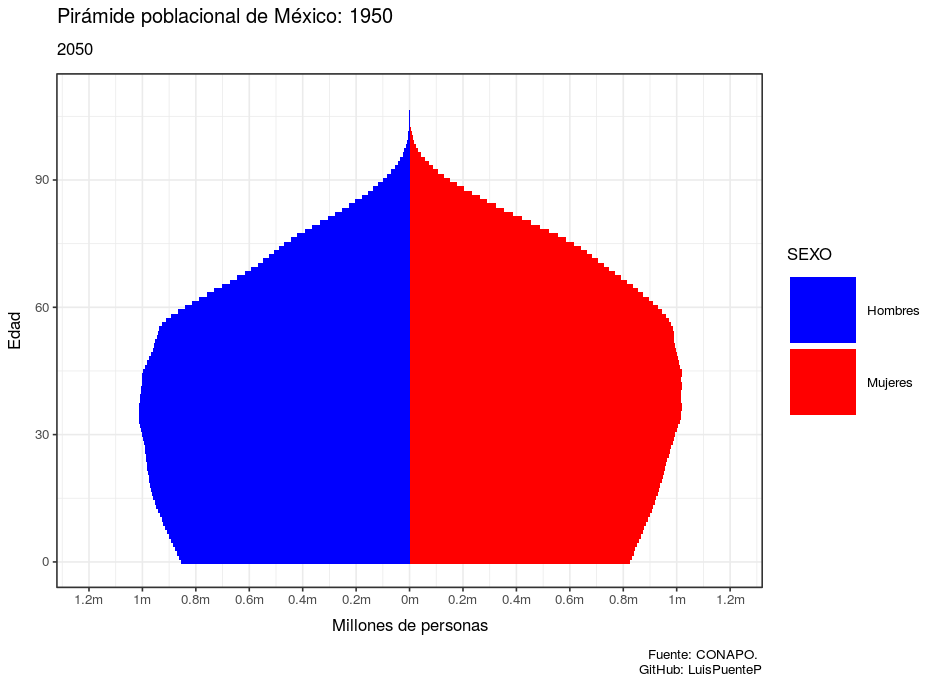
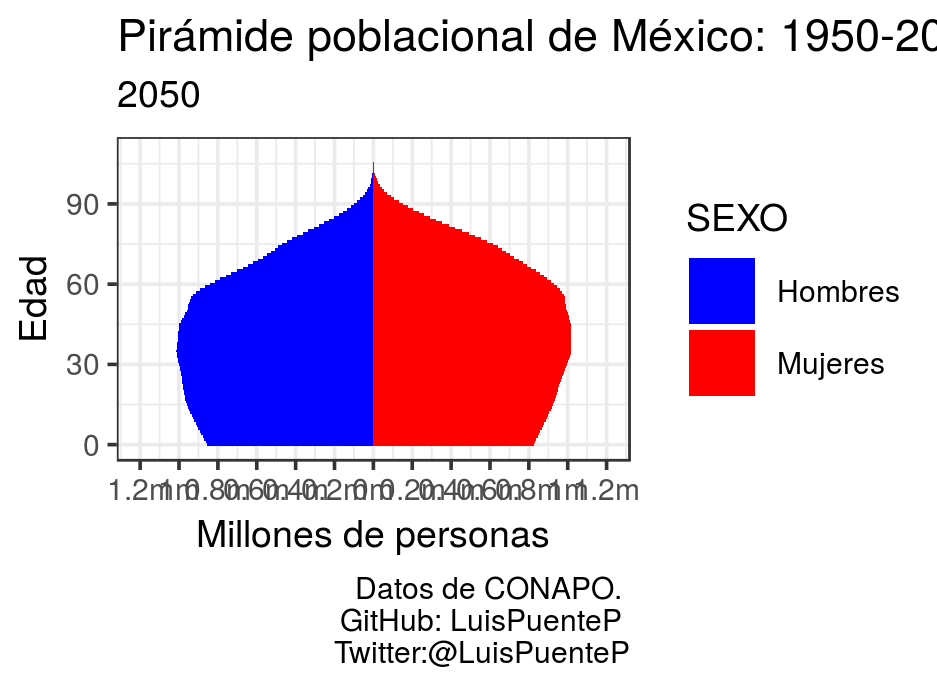
Subo datos

diff --git a/README.md b/README.md
@@ -1,14 +1,14 @@
-# PopulationPyramids
+# Population pyramids
 Mexico's ageing population, animated with R using saveGIF
 
 
 ## Data 
 
-Data from CONAPO.
+Data from CONAPO. [CONAPO](http://www.conapo.gob.mx/work/models/CONAPO/Datos_Abiertos/Proyecciones2018/pob_mit_proyecciones.csv)
 
-Population at mid-year for the period 1950-2050 [CONAPO](http://www.conapo.gob.mx/work/models/CONAPO/Datos_Abiertos/Proyecciones2018/pob_mit_proyecciones.csv)
+Population at mid-year for the period 1950-2050 
 
-For more details [here](https://www.gob.mx/conapo/acciones-y-programas/conciliacion-demografica-de-mexico-1950-2015-y-proyecciones-de-la-poblacion-de-mexico-y-de-las-entidades-federativas-2016-2050)
+Tecnical details [here](https://www.gob.mx/conapo/acciones-y-programas/conciliacion-demografica-de-mexico-1950-2015-y-proyecciones-de-la-poblacion-de-mexico-y-de-las-entidades-federativas-2016-2050)
 
 
 ### Prerequisites
@@ -51,7 +51,7 @@ n1 <- ggplot(data, aes(x = EDAD, y = POBLACION, fill = SEXO)) +
        subtitle = title,
        caption = "Fuente: CONAPO. \n  GitHub: LuisPuenteP") 
 
-n1
+print(n1)
 ```
 ![alt text](https://github.com/LuisPuenteP/PopulationPyramids/blob/master/Code/Mex_pop2050.png "example screenshot")
 
@@ -60,7 +60,6 @@ n1
 
 
 ```
-
 
 saveGIF({
   
@@ -81,15 +80,13 @@ saveGIF({
       labs(x = "Edad", y = "Millones de personas",
            title = "Pirámide poblacional de México: 1950-2050",
            subtitle = title,
-           caption = "Fuente: CONAPO. \n GitHub: LuisPuenteP")
-      
+           caption = "Datos de CONAPO. \n GitHub: LuisPuenteP \n Twitter:@LuisPuenteP")
     
     print(n1)
     
   }
   
 }, movie.name = 'piramide_mex.gif', interval = 0.1, ani.width = 700, ani.height = 600)
-
 ```
 
 ![alt text](https://github.com/LuisPuenteP/PopulationPyramids/blob/master/Code/piramide_mex.gif "example screenshot")
